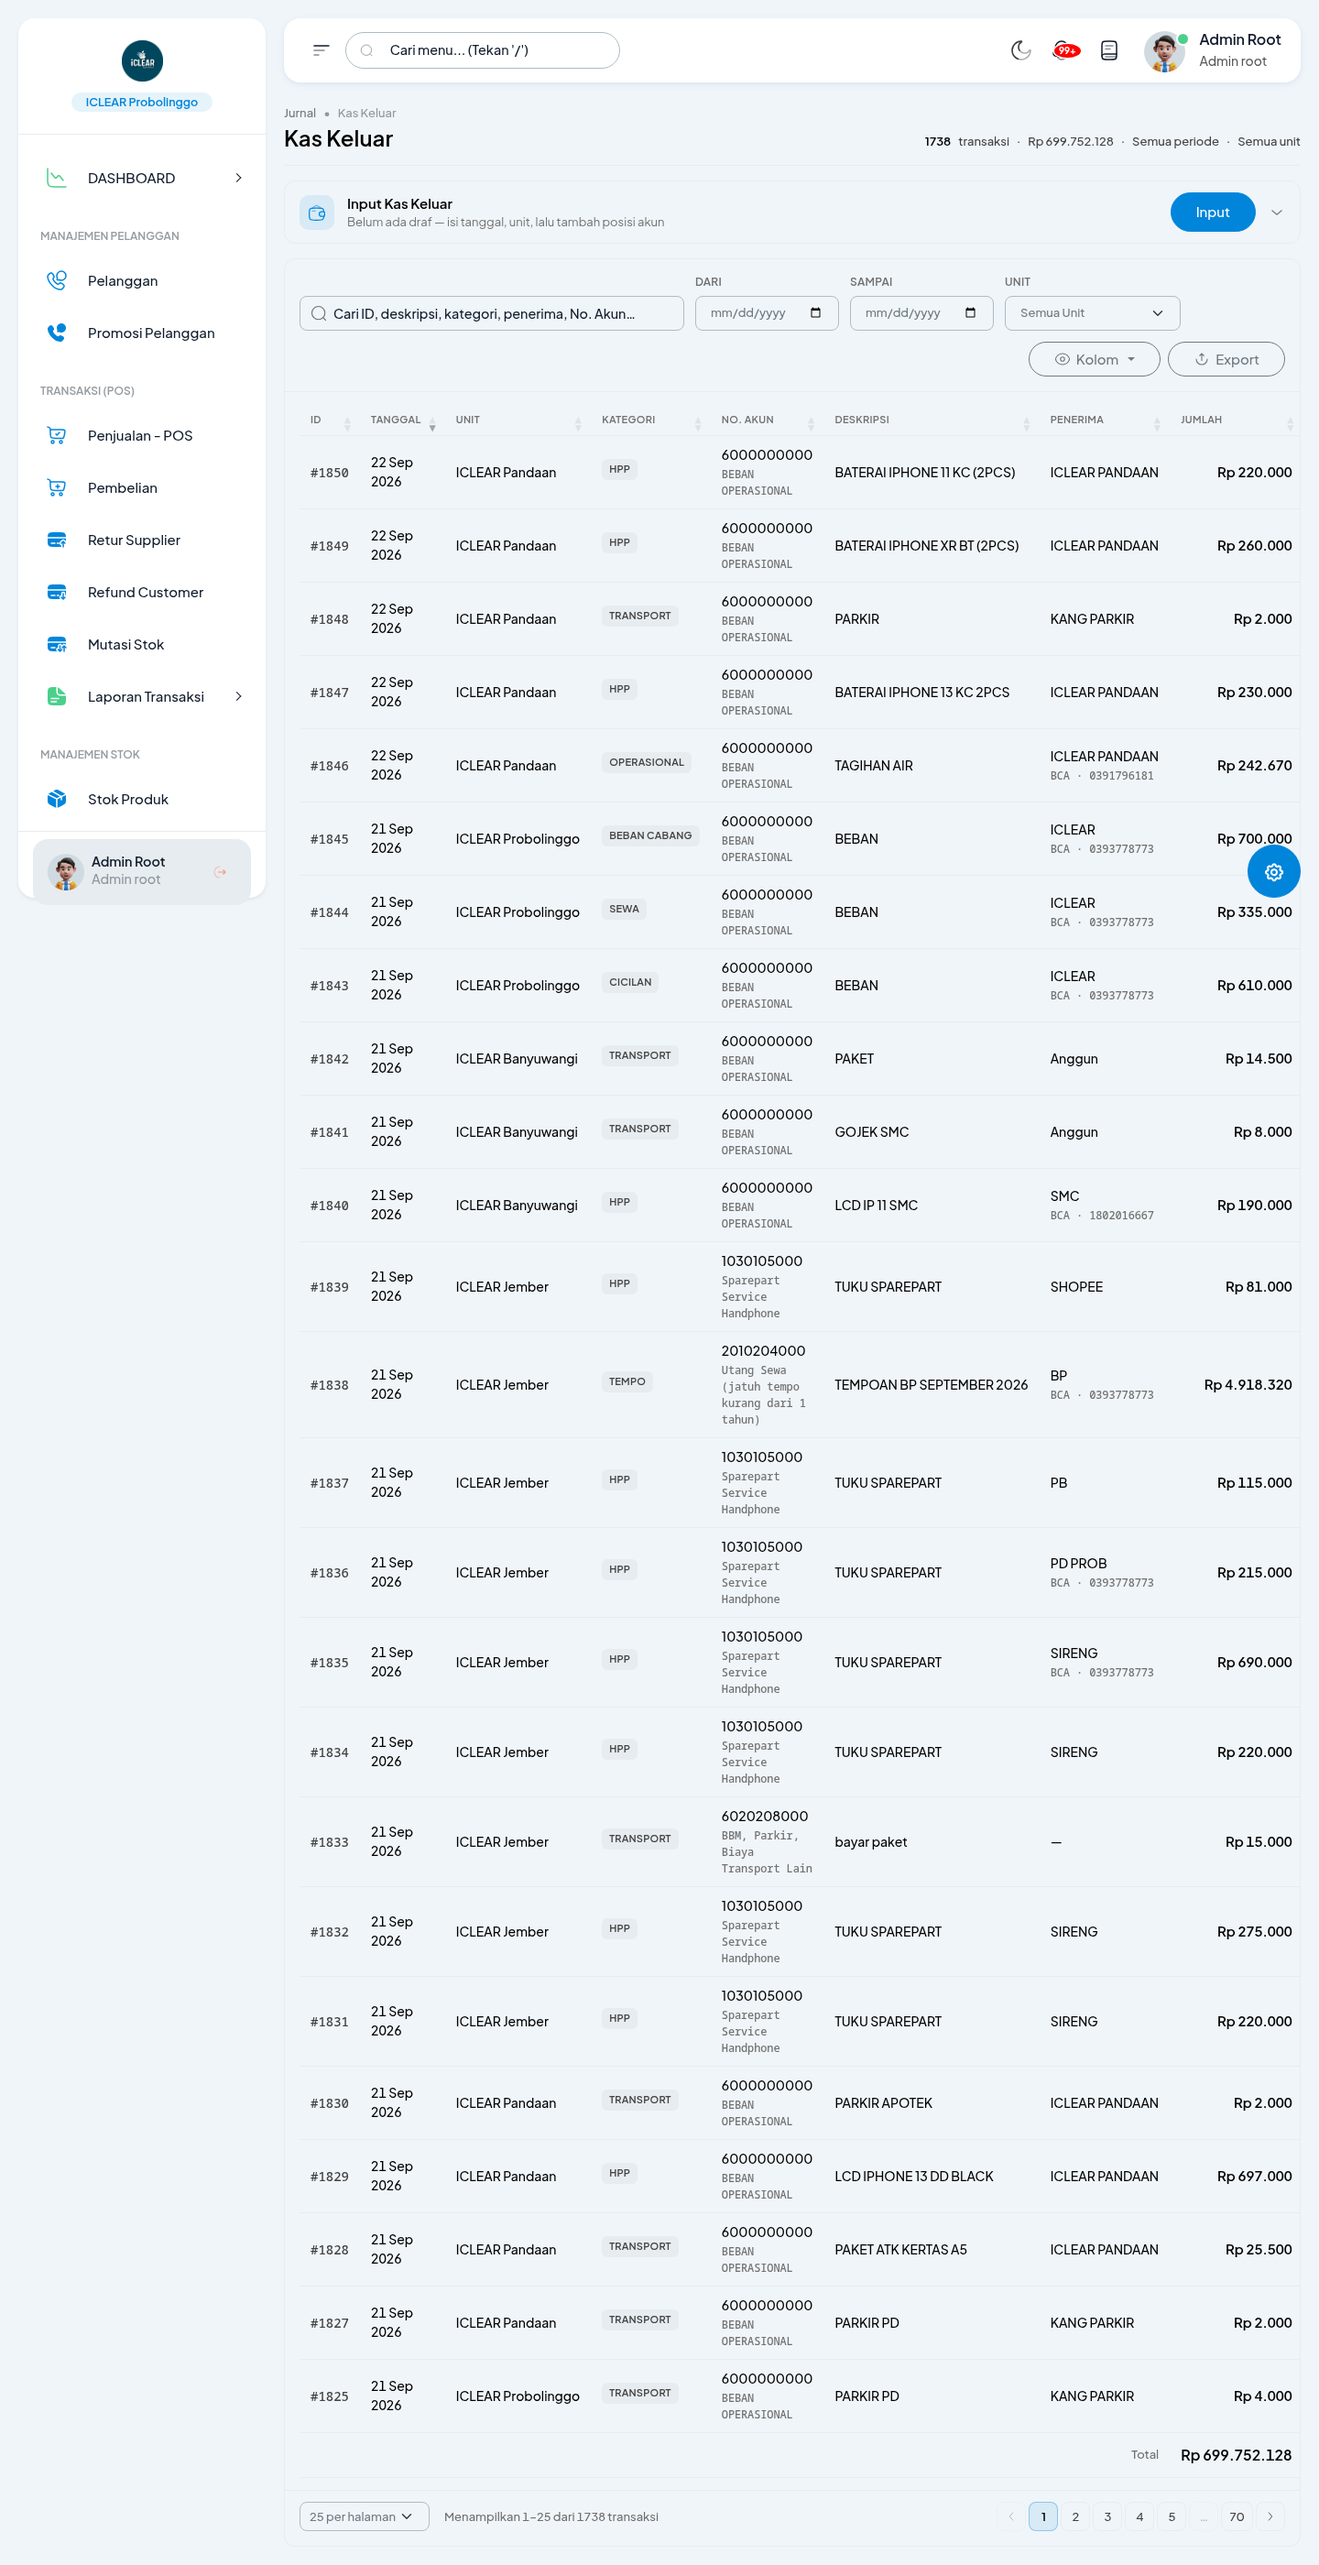
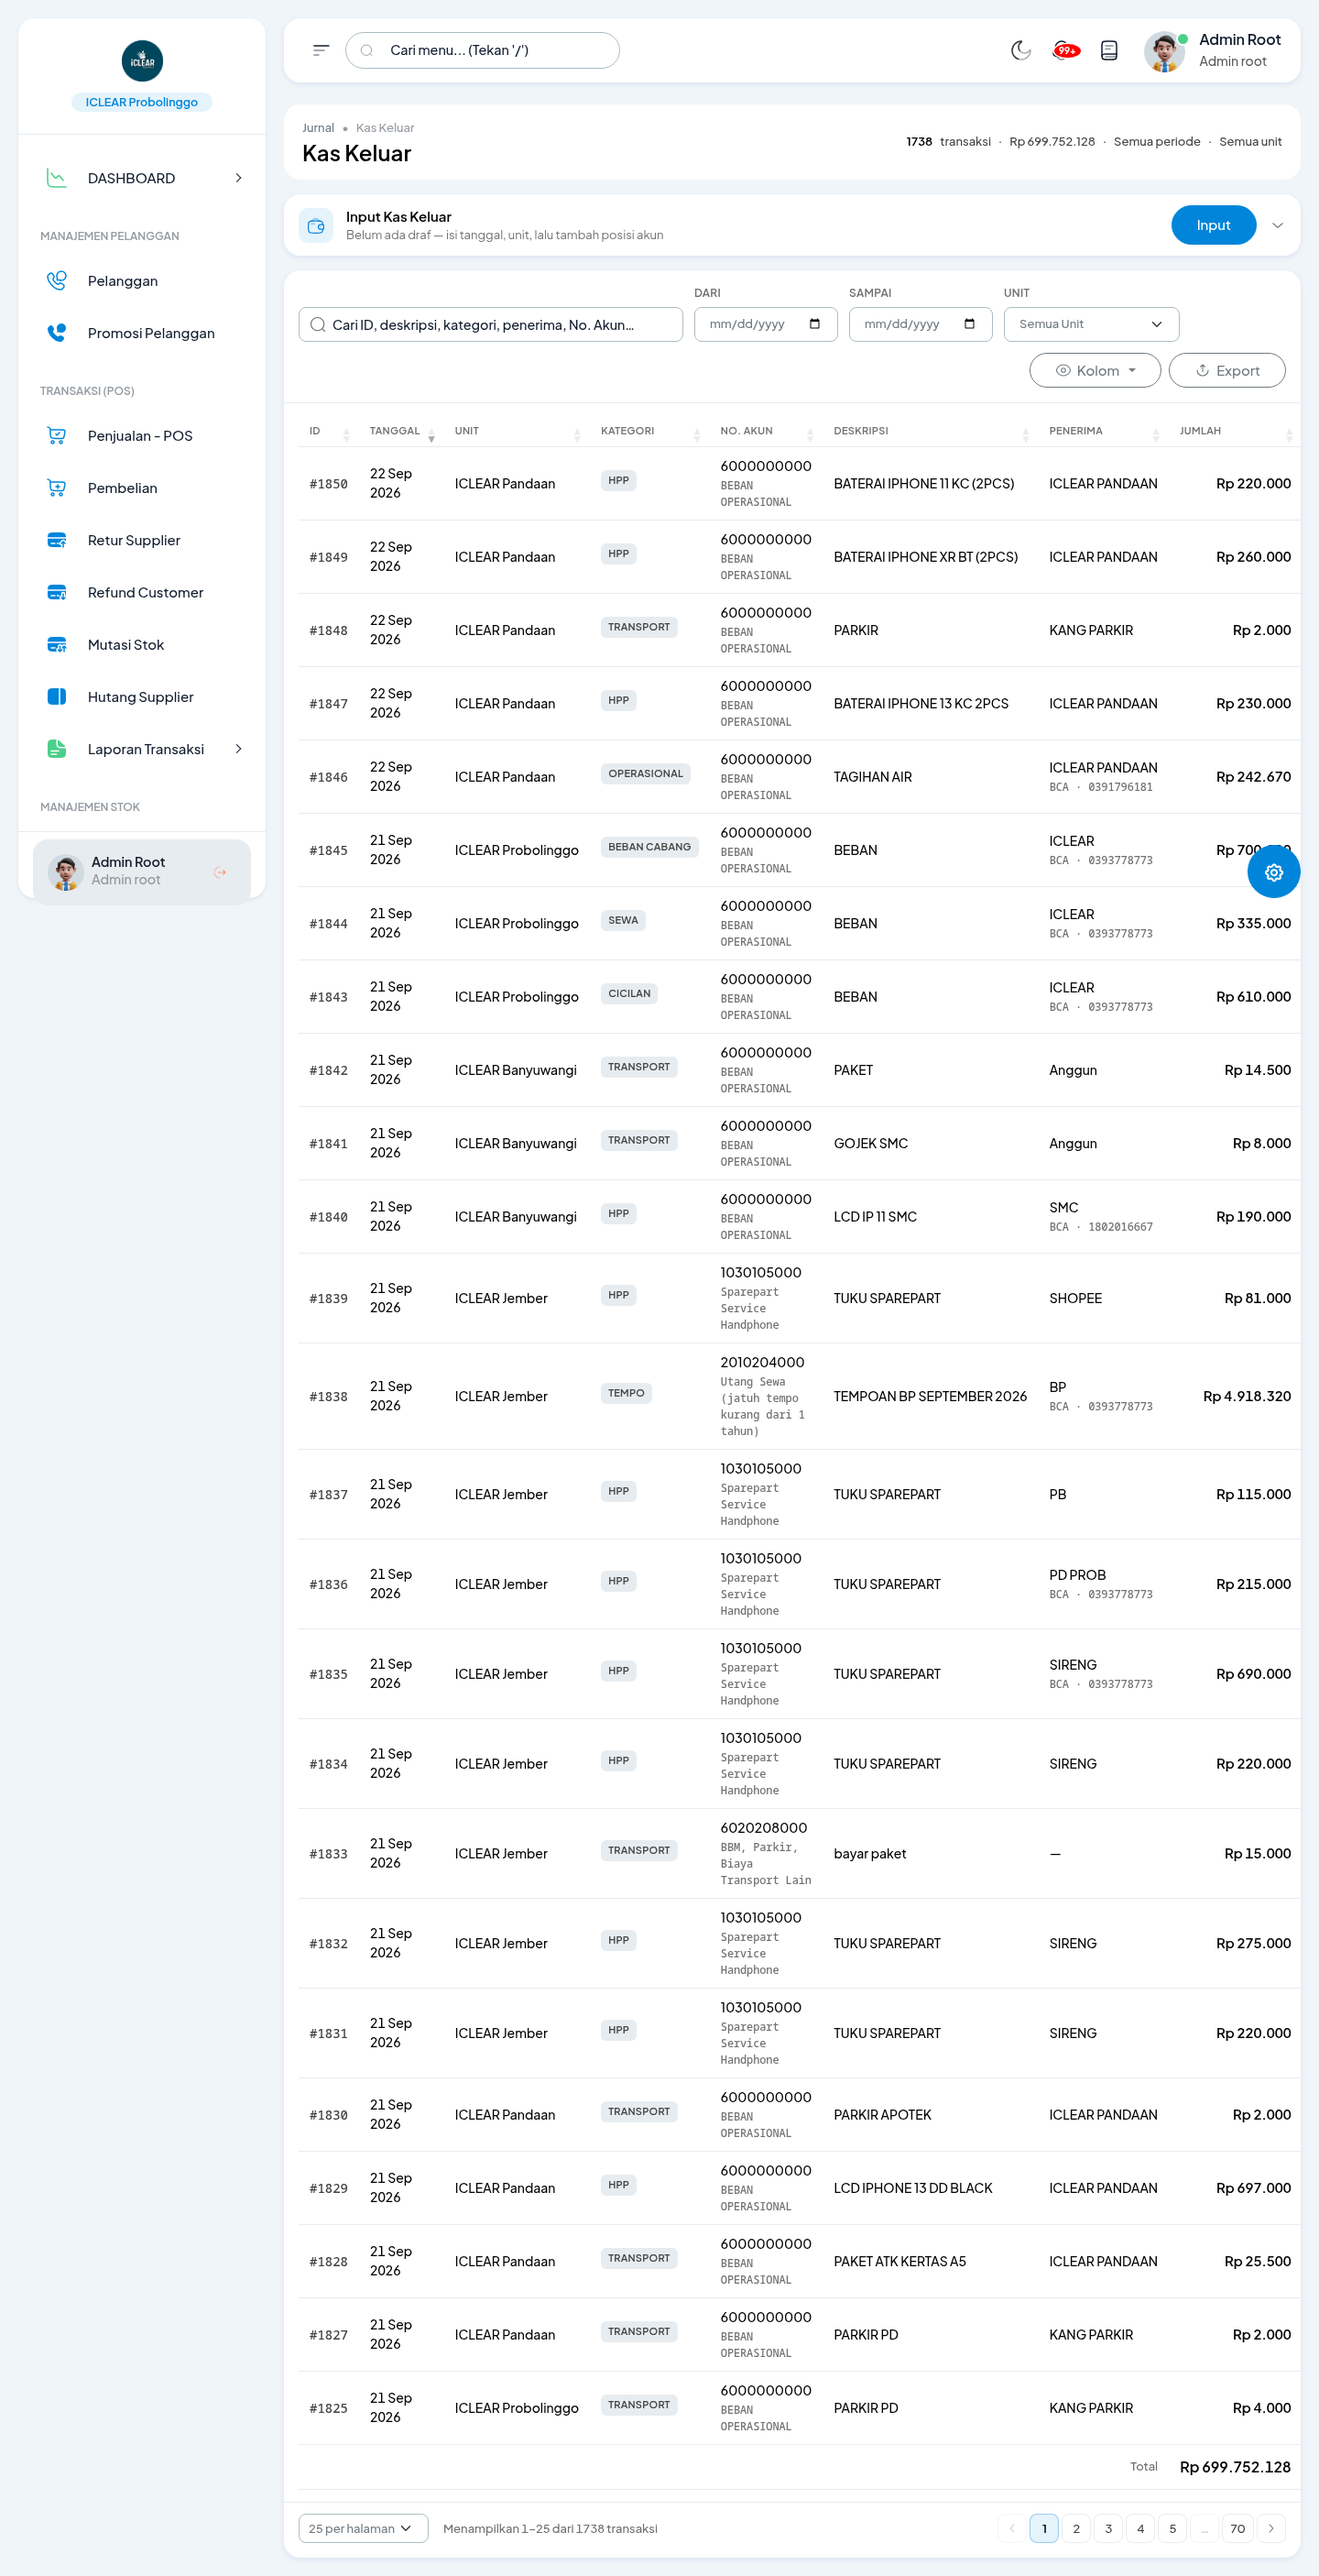
fix(kas_keluar): samakan warna deck dengan kartu aplikasi + ikon cari
- Akar masalah warna: --kk-surface memakai var(--bs-card-bg), padahal token
  itu hanya dideklarasikan di dalam selektor .card (styles.css:5477). Di luar
  kartu nilainya kosong, jadi deck transparan dan kanvas halaman (#f0f5f9
  terang / #15263a gelap) terlihat langsung lewat isi deck.
- Ganti ke var(--bs-body-bg) (nilai yang juga dipakai .card), radius 1.125rem,
  dan elevation tunggal aplikasi 0 2px 6px rgba(37,83,185,.1); hairline
  border deck dihapus agar tidak ada dua stok permukaan. Masthead jadi kartu
  tanpa bayangan (pola card shadow-none) seperti halaman lain.
- Bug ikon cari: tombol bersihkan tidak menyisakan ruang, teks panjang
  menimpanya ~16px. Tambah padding-right 2.25rem saat input berisi; nama ikon
  dirapikan ke solar:magnifier-linear (sebelumnya alias magnifer).
- Gating jabatan tidak disentuh: kolom Aksi tetap hanya untuk ID_JABATAN 1,
  sama seperti a45897f.

diff --git a/app/Views/jurnal/kas_keluar.php b/app/Views/jurnal/kas_keluar.php
@@ -21,11 +21,17 @@ $canPickUnit = in_array($akunRole, [0, 1, 2, 34], true);
         --kk-ink-3: color-mix(in srgb, var(--bs-emphasis-color) 56%, var(--bs-body-bg));
         --kk-line: var(--bs-border-color);
         --kk-raise: var(--bs-tertiary-bg);
-        /* Permukaan deck memakai token kartu aplikasi, sama seperti halaman lain.
-           Tanpa token ini dek transparan dan kanvas halaman (`#f0f5f9` terang /
-           `#15263a` gelap) ikut terlihat lewat isi dek. */
-        --kk-surface: var(--bs-card-bg);
-        --kk-r: 12px;
+        /* Permukaan deck harus warna kartu aplikasi, sama seperti halaman lain.
+           `--bs-card-bg` hanya ada di dalam selektor `.card` (styles.css:5477),
+           sehingga di luar kartu token itu kosong: dek jadi transparan dan
+           kanvas halaman (`#f0f5f9` terang / `#15263a` gelap) terlihat langsung
+           lewat isi dek — itu sebabnya halaman ini terlihat berbeda dari yang lain.
+           `.card` sendiri mengecat `var(--bs-body-bg)`, jadi itulah nilainya. */
+        --kk-surface: var(--bs-body-bg);
+        /* Radius + bayangan kartu aplikasi (styles.css `.card`), supaya dek
+           terbaca sebagai kartu yang sama, bukan bidang lepas di kanvas. */
+        --kk-r: 1.125rem;
+        --kk-shadow: 0 2px 6px rgba(37, 83, 185, .1);
         --kk-mono: ui-monospace, SFMono-Regular, "SF Mono", Menlo, Consolas, monospace;
     }
 
@@ -41,15 +47,18 @@ $canPickUnit = in_array($akunRole, [0, 1, 2, 34], true);
     }
 
     /* ── Masthead ─────────────────────────────────────────────── */
+    /* Kartu judul tanpa bayangan, mengikuti kartu header halaman lain
+       (`card shadow-none`): judul dan cakupan periode di atas kanvasAbu. */
     .kk-masthead {
         display: flex;
         flex-wrap: wrap;
-        align-items: flex-end;
+        align-items: center;
         justify-content: space-between;
         gap: .75rem 1.25rem;
-        padding-bottom: 1rem;
+        padding: 1rem 1.25rem;
         margin-bottom: 1rem;
-        border-bottom: 1px solid var(--kk-line);
+        background: var(--kk-surface);
+        border-radius: var(--kk-r);
     }
 
     .kk-masthead h1 {
@@ -84,8 +93,8 @@ $canPickUnit = in_array($akunRole, [0, 1, 2, 34], true);
     /* ── Deck kerangka ────────────────────────────────────────── */
     .kk-deck {
         background: var(--kk-surface);
-        border: 1px solid var(--kk-line);
         border-radius: var(--kk-r);
+        box-shadow: var(--kk-shadow);
     }
 
     .kk-deck+.kk-deck {
@@ -344,6 +353,12 @@ $canPickUnit = in_array($akunRole, [0, 1, 2, 34], true);
 
     .kk-search[data-filled="true"] .kk-clear {
         display: block;
+    }
+
+    /* Tombol bersihkan mengisi 26px di tepi kanan; tanpa ruang yang disisakan,
+       teks yang panjang menimpanya. */
+    .kk-search[data-filled="true"] .form-control {
+        padding-right: 2.25rem;
     }
 
     .kk-search .kk-clear:hover {
@@ -1088,7 +1103,9 @@ $canPickUnit = in_array($akunRole, [0, 1, 2, 34], true);
         <div class="kk-cmdbar">
             <div class="kk-search" id="kkSearchWrap" data-filled="false">
                 <label class="visually-hidden" for="kkSearch">Cari kas keluar</label>
-                <iconify-icon class="kk-search-icon" icon="solar:magnifer-linear" width="18" height="18" aria-hidden="true"></iconify-icon>
+                <!-- Solar menamai ikon ini `magnifier`; `magnifer` (tanpa "i")
+                     hanya alias di API Iconify dan bisa sewaktu-waktu hilang. -->
+                <iconify-icon class="kk-search-icon" icon="solar:magnifier-linear" width="18" height="18" aria-hidden="true"></iconify-icon>
                 <input type="search" class="form-control" id="kkSearch"
                     placeholder="Cari ID, deskripsi, kategori, penerima, No. Akun…"
                     autocomplete="off" spellcheck="false">

diff --git a/.impeccable/surfaces/kas-keluar.md b/.impeccable/surfaces/kas-keluar.md
@@ -28,11 +28,11 @@ Memorable moment: type `1850` in search and the transaction surfaces — a numer
 
 THESIS: Writing a cash-out entry and reading the ledger are one task, so the page is two decks rather than a list plus a modal — a composer deck docked above a ledger deck, with the running Rupiah total anchored in the composer and never hidden behind a full-screen sheet. Refuses the incumbent's empty header card, its twelve equal-weight columns, and its modal-only entry path.
 
-OWN-WORLD: Committed Modernize admin tokens only, consumed as resolved CSS vars (`--bs-primary`, `--bs-success`, `--bs-warning`, `--bs-danger`, `--bs-border-color`, `--bs-body-bg`, `--bs-secondary-color`) so Blue_Theme's `#0085db` primary and `#4bd08b` success and every dark-mode value come from the app itself. Debet = primary-tinted chip, Kredit = warning-tinted chip, danger reserved for Hapus alone. Iconify `solar:*` for chrome, Bootstrap Icons for row glyphs. Tabular-nums for every Rupiah figure and for IDs. Bordered 12px-radius containers, one elevation level, no gradients, no new fonts, no new palette.
+OWN-WORLD: Committed Modernize admin tokens only, consumed as resolved CSS vars (`--bs-primary`, `--bs-success`, `--bs-warning`, `--bs-danger`, `--bs-border-color`, `--bs-body-bg`, `--bs-secondary-color`) so Blue_Theme's `#0085db` primary and `#4bd08b` success and every dark-mode value come from the app itself. Debet = primary-tinted chip, Kredit = warning-tinted chip, danger reserved for Hapus alone. Iconify `solar:*` for chrome, Bootstrap Icons for row glyphs. Tabular-nums for every Rupiah figure and for IDs. Card geometry is the app's own: `--kk-surface: var(--bs-body-bg)` at 1.125rem (18px) radius with the single existing elevation `0 2px 6px rgba(37,83,185,.1)`, no gradients, no new fonts, no new palette. Surface must read as the same card stock as every other page — 2026-09-26 repair: `--kk-surface` resolved `var(--bs-card-bg)`, which is only declared inside `.card` (styles.css:5477), so outside a card the token was empty and the decks painted the bare canvas instead.
 
 STORY: Finance opens the page and the composer is already there, folded to a single line. They tap it, fill tanggal/unit/deskripsi, add as many posisi akun as the entry needs, watch the total settle as they type, and save — without the ledger ever leaving the screen. To reconcile, they type in one search field: a number resolves as an ID and answers with a clickable chip naming that exact transaction; anything else searches deskripsi, kategori, penerima, and no. akun. Filters show as removable chips so the current scope is never guesswork.
 
-FIRST VIEWPORT: A single full-width header line — title, breadcrumb, and the period/unit scope in one row, no separate header card. Below it the composer deck, folded: one 56px bar reading `Input Kas Keluar` with the live draft summary (tanggal · n pos · total) right-aligned and a primary unfold control. Below that the ledger deck's command bar: the search field at 320px as the deck's hero, date range and unit beside it, active-filter chips, result count, export, and a column toggle. Then the ledger, nine weighted columns plus Aksi — ID mono-muted, Tanggal, Kategori as a chip, No Akun mono with nama_akun beneath, Deskripsi taking the surplus width, Penerima with rekening beneath, Jumlah right-aligned in tabular numerals at the largest size on the row, Posisi as a semantic chip — with a true filtered total in the footer. Bank, nama bank, and no. rekening are deliberately folded into the Penerima cell as its second line rather than kept as columns of their own: at 1.738 rows they were three mostly-empty columns buying nothing.
+FIRST VIEWPORT: A single full-width header line — title, breadcrumb, and the period/unit scope in one row, carried on a borderless, shadowless card surface so the page reads as the same stack of cards as `/kas_masuk` (2026-09-26 repair: it was an ungrounded line floating on the canvas, which is what made this page look unlike the rest). Below it the composer deck, folded: one 56px bar reading `Input Kas Keluar` with the live draft summary (tanggal · n pos · total) right-aligned and a primary unfold control. Below that the ledger deck's command bar: the search field at 320px as the deck's hero, date range and unit beside it, active-filter chips, result count, export, and a column toggle. Then the ledger, nine weighted columns plus Aksi — ID mono-muted, Tanggal, Kategori as a chip, No Akun mono with nama_akun beneath, Deskripsi taking the surplus width, Penerima with rekening beneath, Jumlah right-aligned in tabular numerals at the largest size on the row, Posisi as a semantic chip — with a true filtered total in the footer. Bank, nama bank, and no. rekening are deliberately folded into the Penerima cell as its second line rather than kept as columns of their own: at 1.738 rows they were three mostly-empty columns buying nothing.
 
 FORM: The dealt surface structure, rank 5 of 7 on the grounded list, seed key f2a11c7c (THE ROLL). Composition: two-deck console — composer deck over ledger deck.
 

diff --git a/.impeccable/DESIGN.md b/.impeccable/DESIGN.md
@@ -53,6 +53,7 @@ Status: shipped 2026-09-26 · brief + verdict + provenance: `.impeccable/surface
 - **Wide tables scroll inside their deck, never the page.** `.kk-tablewrap` and `.kk-composer-body` both carry `contain: paint`. Without it, `.table-responsive` clipped the position table correctly yet the overflow still propagated up and the whole document scrolled sideways on a 390px phone. Verified `docScrollWidth == clientWidth` at 1440/1280/768/390/360 with the composer both folded and open.
 - **Folded composer leaves the flow entirely** (`display: none`, plus a one-shot open animation) rather than collapsing to `0fr`; a collapsed-but-present body kept widening the document.
 - Ink hierarchy is a 3-step mix off the committed tokens (`--kk-ink` / `-2` / `-3` via `color-mix`), so hierarchy holds in both themes instead of being hand-picked per theme.
+- **`--bs-card-bg` is not a global token.** It is declared only inside `.card` (`styles.css:5477`), so any custom surface that reaches for it outside a card resolves to nothing and silently paints the page canvas — which is exactly how these decks once rendered `#f0f5f9` / `#15263a` instead of card stock. Decks here take `var(--bs-body-bg)` at 1.125rem radius and the app's single elevation `0 2px 6px rgba(37,83,185,.1)`, with no hairline border, so masthead and decks match `/kas_masuk` pixel-for-pixel; `--kk-shadow` is the only new token and it carries an existing value.
 
 ### Preserved exactly
 Route names, field names, multi-position insert, single-position update, unit locking (`[0,1,2,34]`), and jabatan gating. Date defaults to today as the incumbent did.
